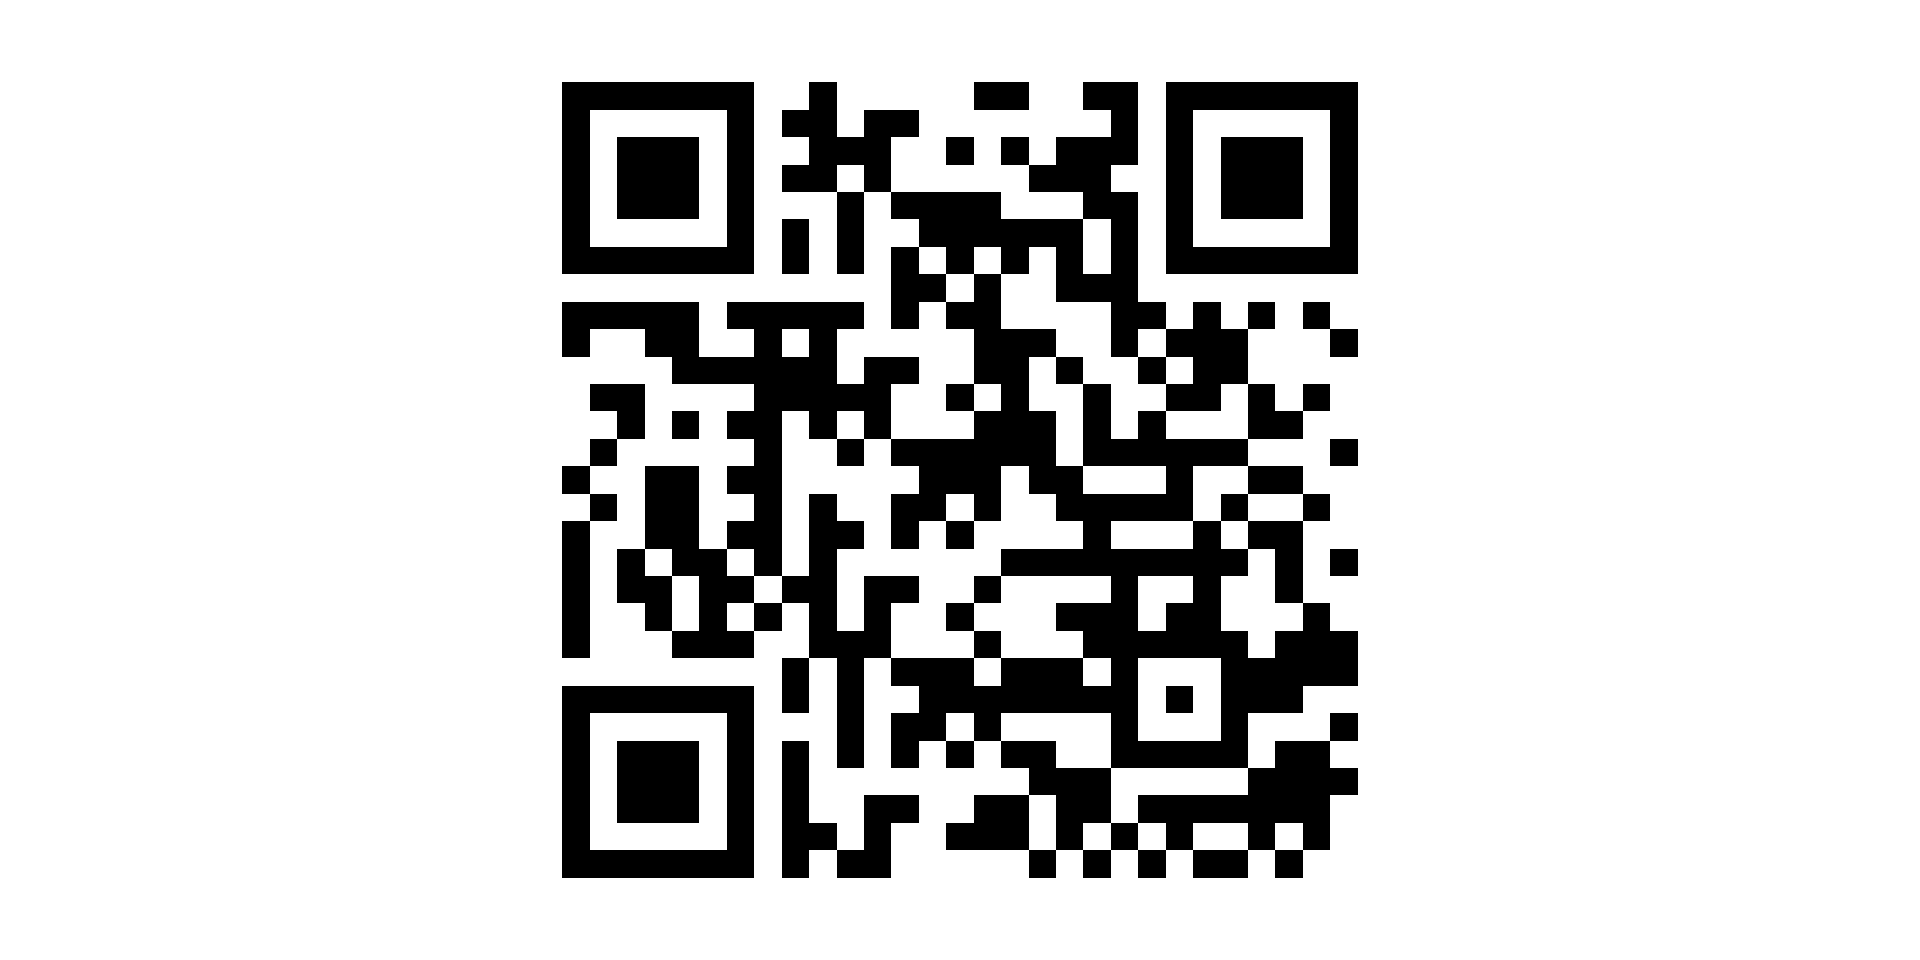
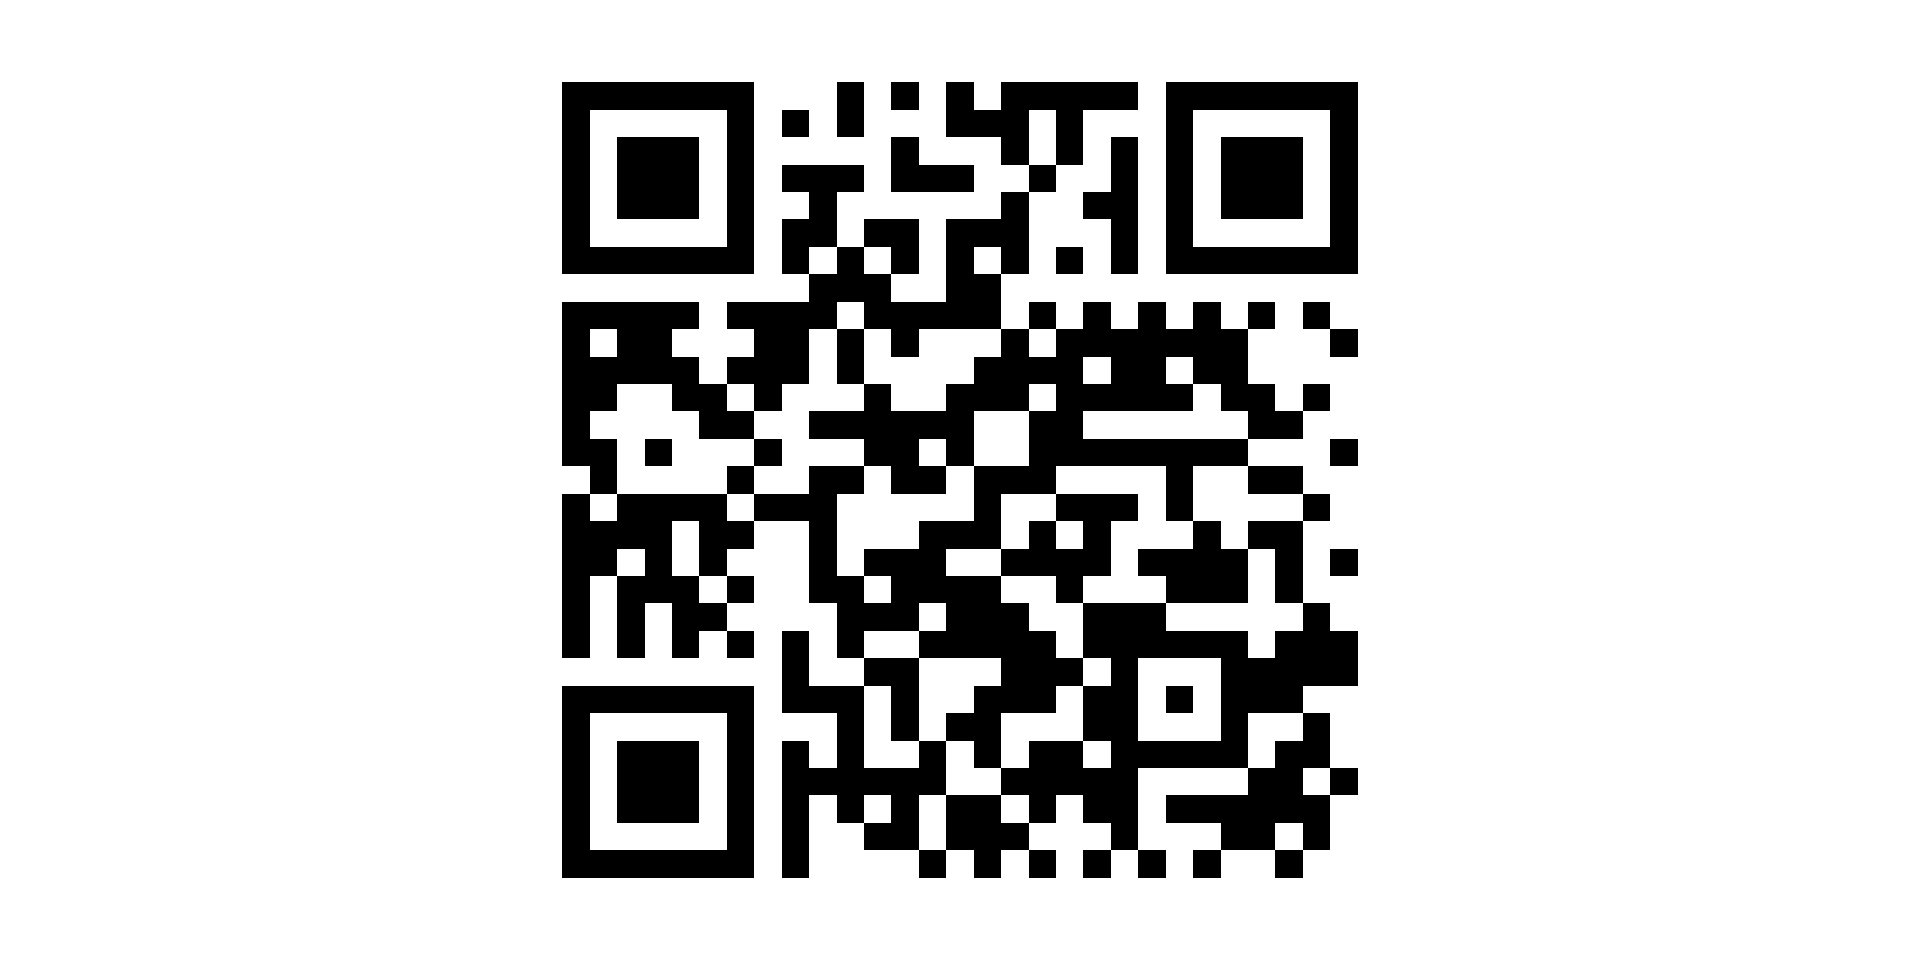
push with qr code check

Changed region(s): [[0.2812, 0.0625, 0.6562, 0.9375], [0.6562, 0.7188, 0.7188, 0.8438], [0.5938, 0.5, 0.6562, 0.5625]]

diff --git a/index.html b/index.html
@@ -12,7 +12,7 @@
 <meta name="generator" content="quarto-1.3.353">
 <meta name="author" content="Liza Bolton">
 <meta name="dcterms.date" content="2024-03-08">
-<title>The Art and Science of Uncertainty</title>
+<title>the art and science of uncertainty</title>
 <meta name="apple-mobile-web-app-capable" content="yes">
 <meta name="apple-mobile-web-app-status-bar-style" content="black-translucent">
 <meta name="viewport" content="width=device-width, initial-scale=1.0, maximum-scale=1.0, user-scalable=no, minimal-ui">
@@ -320,14 +320,14 @@
       margin-right: 0; 
     }
   </style>
-<script type="application/json" id="xaringanExtra-editable-docid">{"id":"x0240932404d4e0ebd1b8d3bd2772dcf","expires":1}</script><script src="index_files/libs/himalaya-1.1.0/himalaya.js"></script><script src="index_files/libs/js-cookie-3.0.0/js.cookie.js"></script><link href="index_files/libs/editable-0.2.6/editable.css" rel="stylesheet">
+<script type="application/json" id="xaringanExtra-editable-docid">{"id":"fa261c3cf5ce4b589de16d6d90f28c22","expires":1}</script><script src="index_files/libs/himalaya-1.1.0/himalaya.js"></script><script src="index_files/libs/js-cookie-3.0.0/js.cookie.js"></script><link href="index_files/libs/editable-0.2.6/editable.css" rel="stylesheet">
 <script src="index_files/libs/editable-0.2.6/editable.js"></script>
 </head>
 <body class="quarto-light">
   <div class="reveal">
     <div class="slides">
 
-<section id="title-slide" data-background-image="/img/title_image.jpg" data-background-opacity="0.4" class="quarto-title-block center"><h1 class="title">The Art and Science of Uncertainty</h1>
+<section id="title-slide" data-background-image="/img/title_image.jpg" data-background-opacity="0.4" class="quarto-title-block center"><h1 class="title">the art and science of uncertainty</h1>
   <p class="subtitle">Data Aotearoa 2024</p>
 
 <div class="quarto-title-authors">
@@ -339,6 +339,9 @@ Liza Bolton
 </div>
 
   <p class="date">2024-03-08</p>
+</section><section id="scan-for-slides" class="title-slide slide level1 center"><h1>scan for slides</h1>
+
+<img data-src="img/slide-qr.png" class="r-stretch quarto-figure-center"><p>or go to <a href="link.lizabolton.com">link.lizabolton.com</a></p>
 </section><section><section id="kia-ora-im-liza" class="title-slide slide level1 center"><h1>kia ora, i’m liza!</h1>
 <p>Your friendly neighbourhood statistician.</p>
 <div class="cell">
@@ -387,7 +390,7 @@ My name is Liza</p>
 <p><a href="https://forms.gle/njWot2YzLKhm9bhWA">Link to survey</a></p>
 <div class="cell">
 <div class="cell-output-display">
-<p><img data-src="index_files/figure-revealjs/unnamed-chunk-1-1.png" width="960"></p>
+<p><img data-src="index_files/figure-revealjs/unnamed-chunk-2-1.png" width="960"></p>
 </div>
 </div>
 </div>
